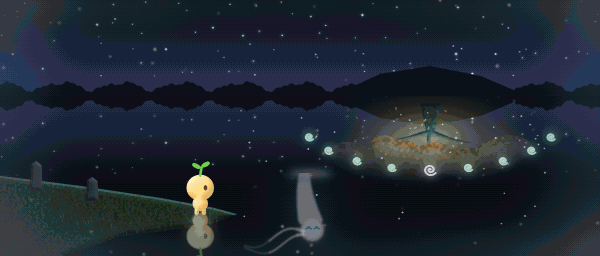
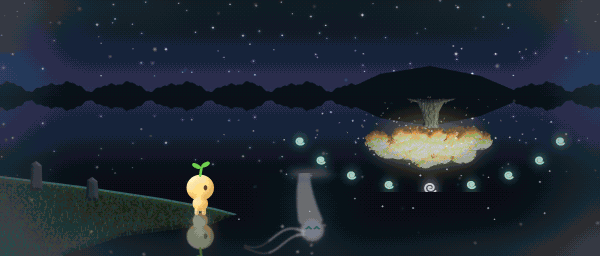
Ilustración del noveno eco: el Primer Árbol reflejado más grande y las nueve espirales en arco a su alrededor

diff --git a/herramientas/cinematicas_sendero.py b/herramientas/cinematicas_sendero.py
@@ -1249,16 +1249,16 @@ def eco_lago():
     lz.pintar(vetas, "#a8c8e0", 0.08)
     # SOLO EN EL REFLEJO: el Primer Árbol en su colina (su halo, recortado en suave)...
     a_lz = Lienzo(W, H, semilla=305)
-    _primer_arbol(a_lz, 430, HZ - 8, 56)
+    _primer_arbol(a_lz, 430, HZ - 4, 70)
     # (el halo del árbol llena todo el cielo: fuera la luz débil, y lo que queda se apaga en suave hacia los lados)
-    cerca = np.clip(1.15 - np.hypot((a_lz.x - 430) / 120, (a_lz.y - (HZ - 36)) / 48), 0, 1) ** 1.5
-    a_lz.img = np.clip((a_lz.img - 0.16) / 0.84, 0, 1) * cerca[..., None]
+    cerca = np.clip(1.2 - np.hypot((a_lz.x - 430) / 140, (a_lz.y - (HZ - 46)) / 62), 0, 1) ** 1.2
+    a_lz.img = np.clip((a_lz.img - 0.08) / 0.8, 0, 1) * cerca[..., None]
     _solo_reflejo_luz(lz, a_lz, HZ, agua, 0.8)
     # ...nueve espirales de luz en arco sobre él (ocho verdes y la del Silencio, plateada, en el centro)...
     e_lz = Lienzo(W, H, semilla=306)
     for k in range(9):
         a = math.pi * (0.12 + 0.76 * k / 8)
-        cx, cy = 430 - math.cos(a) * 130, HZ - 22 - math.sin(a) * 52
+        cx, cy = 430 - math.cos(a) * 140, HZ - 18 - math.sin(a) * 74
         plateada = k == 4
         r0 = 6.5 if plateada else 4.5
         pts = [(cx + math.cos(t) * r0 * t / 12, cy + math.sin(t) * r0 * t / 12 * 0.9) for t in np.linspace(0.5, 12, 40)]
@@ -1283,9 +1283,9 @@ def eco_lago():
         menhir = lz.poligono([(x - 6, y), (x - 5, y - alto), (x, y - alto - 3), (x + 5, y - alto + 1), (x + 6, y)])
         lz.sombrear(menhir, ["#0c0e16", "#1a1e2a", "#2c3242", "#40485a"], 4, (0.5, -0.8, 0.5))
     hierba = np.zeros((lz.H, lz.W))
-    for k in range(120):
-        x = rng.random() * 220
-        yb = 178 + x * 0.14 + rng.random() * 40
+    for k in range(420):
+        x = rng.random() * 230
+        yb = 178 + x * 0.14 + rng.random() * 70
         hierba = np.maximum(hierba, lz.trazo([(x, yb), (x + (rng.random() - 0.5) * 3, yb - 3 - rng.random() * 4)], 0.5))
     lz.pintar(hierba * isla, "#2a4030", 0.9)
     # Maisha, sentada al borde, mirando el agua (su luz se refleja)

diff --git a/documentacion/decisiones.md b/documentacion/decisiones.md
@@ -195,3 +195,4 @@ se pasan.
 | La pared de la Cañada en el 17 | Era un polígono negro plano; ahora es roca con escalones, estratos, grietas, un canto iluminado por el horizonte y hierbas arriba |
 | Las paredes de la Cañada (16) | Eran una masa oscura borrosa; ahora son capas de roca apiladas con juntas onduladas, el canto de cada capa con luz y hierba, sombra debajo, algunas grietas y la cara del hueco encendida por el sol |
 | La cueva de las setas (20) | Era un fondo negro con setas; ahora tiene una bóveda de rocas que iluminan las setas desde abajo, estalactitas con gotas que brillan, suelo con piedras y charcos de luz, setas con láminas, motitas y racimos, y dos setas enormes delante |
+| El eco del lago (21) | El árbol del reflejo usa el árbol nuevo, más grande y con más brillo; las nueve espirales forman un arco alrededor de la copa que cabe en el reflejo; más hierba en la isla |
